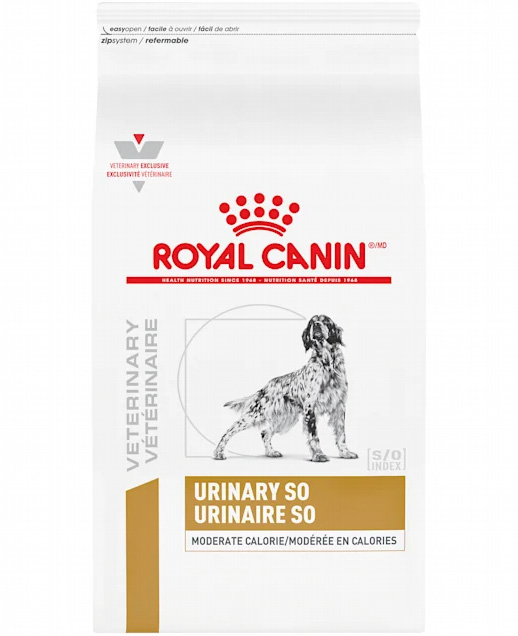
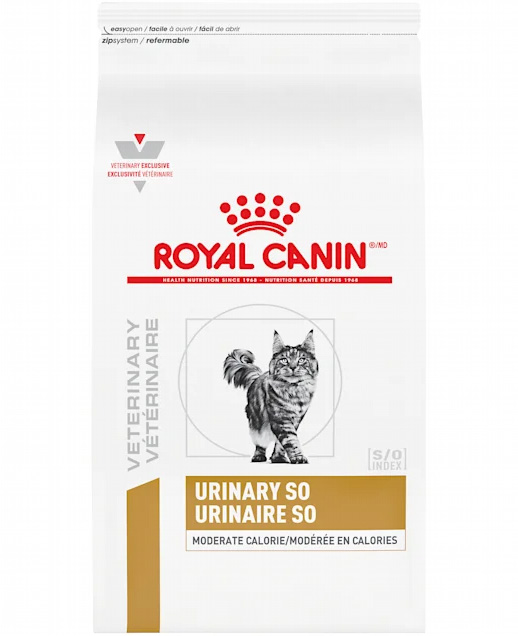
feedback done

diff --git a/Hand-off/index.html b/Hand-off/index.html
@@ -520,6 +520,7 @@
     .pov1-right img {
         width: 100%;
         max-width: 260px;
+        margin-top: 3%;
     }
 
     img.citrusRoyal--logo {
@@ -534,7 +535,7 @@
         display: flex;
         justify-content: center;
         align-items: start;
-        margin-top: 5%;
+        margin-top: 3%;
     }
 
     .pov1-textBox h1 {
@@ -591,8 +592,9 @@
     .pov3-left {
         display: flex;
         justify-content: center;
-        align-items: center;
+        align-items: start;
         text-align: center;
+        margin-top: 6%;
     }
 
     .pov3-left img {
@@ -605,6 +607,7 @@
         margin: 0;
         font-family: "PetcoCircularTT-Bold", arial !important;
         font-size: 16px;
+        line-height: 18px;
         font-weight: bold;
         color: #000;
         text-align: center;
@@ -1322,9 +1325,6 @@
                                 alt="German Shepherd adult kibble">
                             <h3>GERMAN<br>SHEPHERD</h3>
                         </div>
-
-
-
                     </div>
                     <div class="citrusRoyal__pov-col pov1-textBox">
                         <div>
@@ -1359,7 +1359,9 @@
     <section id="citrusRoyal__RawFood">
         <h2 class="citrusRoyal__sectionTitle">Find the right food for your pet</h2>
         <div class="citrusRoyal__RawFoodContainer">
-            <a href="" manual_cm_sp="" onclick="clickTrackLink(this);">
+            <a href="https://www.petco.com/shop/en/petcostore/brand/royal-canin"
+                manual_cm_sp="sponsoredbrandpage:royalcanin:apositiveimpact:1:apositiveimpact:shopall"
+                onclick="clickTrackLink(this);">
                 <div class="citrusRoyal__category">
                     <!-- food 01 -->
                     <div class="citrusRoyal__card">
@@ -2184,7 +2186,7 @@
                                 <!-- tab item 02-->
                                 <div class="citrusRoyal__Product royal-cat-vet splide__slide">
                                     <div class="citrusRoyal-tab-card">
-                                        <a href="https://www.petco.com/shop/en/petcostore/product/royal-canin-veterinary-diet-urinary-so-moderate-calorie-dry-dog-food-176-lbs-2690404"
+                                        <a href="https://www.petco.com/shop/en/petcostore/product/royal-canin-veterinary-diet-urinary-so-moderate-calorie-dry-cat-food"
                                             manual_cm_sp="sponsoredbrandpage:royalcanin:catvetdiets:2:2urinarydry17/6#:product"
                                             onclick="clickTrackLink(this);">
                                             <div class="citrusRoyal-tab-cardImg">
@@ -2197,7 +2199,7 @@
                                             </div>
                                         </a>
                                         <a class="citrusRoyal__productCTA"
-                                            href="https://www.petco.com/shop/en/petcostore/product/royal-canin-veterinary-diet-urinary-so-moderate-calorie-dry-dog-food-176-lbs-2690404"
+                                            href="https://www.petco.com/shop/en/petcostore/product/royal-canin-veterinary-diet-urinary-so-moderate-calorie-dry-cat-food"
                                             manual_cm_sp="sponsoredbrandpage:royalcanin:catvetdiets:2:2urinarydry17/6#:product"
                                             onclick="clickTrackLink(this);">Shop
                                             Now</a>

diff --git a/index.html b/index.html
@@ -108,9 +108,6 @@
                                 <img src="assets/images/RoyalCanin-POV-03-left3.png" alt="German Shepherd adult kibble">
                                 <h3>GERMAN<br>SHEPHERD</h3>
                             </div>
-
-
-
                         </div>
                         <div class="citrusRoyal__pov-col pov1-textBox">
                             <div>
@@ -144,7 +141,9 @@
         <section id="citrusRoyal__RawFood">
             <h2 class="citrusRoyal__sectionTitle">Find the right food for your pet</h2>
             <div class="citrusRoyal__RawFoodContainer">
-                <a href="" manual_cm_sp="" onclick="clickTrackLink(this);">
+                <a href="https://www.petco.com/shop/en/petcostore/brand/royal-canin"
+                    manual_cm_sp="sponsoredbrandpage:royalcanin:apositiveimpact:1:apositiveimpact:shopall"
+                    onclick="clickTrackLink(this);">
                     <div class="citrusRoyal__category">
                         <!-- food 01 -->
                         <div class="citrusRoyal__card">
@@ -959,7 +958,7 @@
                                     <!-- tab item 02-->
                                     <div class="citrusRoyal__Product royal-cat-vet splide__slide">
                                         <div class="citrusRoyal-tab-card">
-                                            <a href="https://www.petco.com/shop/en/petcostore/product/royal-canin-veterinary-diet-urinary-so-moderate-calorie-dry-dog-food-176-lbs-2690404"
+                                            <a href="https://www.petco.com/shop/en/petcostore/product/royal-canin-veterinary-diet-urinary-so-moderate-calorie-dry-cat-food"
                                                 manual_cm_sp="sponsoredbrandpage:royalcanin:catvetdiets:2:2urinarydry17/6#:product"
                                                 onclick="clickTrackLink(this);">
                                                 <div class="citrusRoyal-tab-cardImg">
@@ -971,7 +970,7 @@
                                                 </div>
                                             </a>
                                             <a class="citrusRoyal__productCTA"
-                                                href="https://www.petco.com/shop/en/petcostore/product/royal-canin-veterinary-diet-urinary-so-moderate-calorie-dry-dog-food-176-lbs-2690404"
+                                                href="https://www.petco.com/shop/en/petcostore/product/royal-canin-veterinary-diet-urinary-so-moderate-calorie-dry-cat-food"
                                                 manual_cm_sp="sponsoredbrandpage:royalcanin:catvetdiets:2:2urinarydry17/6#:product"
                                                 onclick="clickTrackLink(this);">Shop
                                                 Now</a>

diff --git a/assets/custom.css b/assets/custom.css
@@ -143,6 +143,7 @@ body {
 .pov1-right img {
   width: 100%;
   max-width: 260px;
+  margin-top: 3%;
 }
 img.citrusRoyal--logo {
   position: absolute;
@@ -155,7 +156,7 @@ img.citrusRoyal--logo {
   display: flex;
   justify-content: center;
   align-items: start;
-  margin-top: 5%;
+  margin-top: 3%;
 }
 .pov1-textBox h1 {
   margin: 0 0 5px;
@@ -204,8 +205,9 @@ img.citrusRoyal--logo {
 .pov3-left {
   display: flex;
   justify-content: center;
-  align-items: center;
+  align-items: start;
   text-align: center;
+  margin-top: 6%;
 }
 .pov3-left img {
   width: 100%;
@@ -216,6 +218,7 @@ img.citrusRoyal--logo {
   margin: 0;
   font-family: "PetcoCircularTT-Bold", arial !important;
   font-size: 16px;
+  line-height: 18px;
   font-weight: bold;
   color: #000;
   text-align: center;
